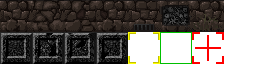
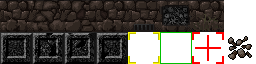
We have explosions!

Changed region(s): [[0.875, 0.5625, 1.0, 0.9375]]

diff --git a/Game.py b/Game.py
@@ -39,6 +39,62 @@ class Game( GameState ):
 
         self.world.process()
 
+        hitTiles = {}
+        for ent in self.world.getEntityByComponent( ECS.Components.Position, GameComponents.Explosive ):
+            pos = ent.getComponent( ECS.Components.Position )
+            pos = ( pos.x, pos.y )
+
+            explosive = ent.getComponent( GameComponents.Explosive )
+
+            def handleRay( targetX, targetY ):
+                curStrength = explosive.strength
+
+                def handleBlock( x, y ):
+                    nonlocal curStrength
+                    if curStrength <= 0:
+                        return True
+
+                    curToughness = TileTypes[ GameData.Map.get( x, y ) ].hardness
+                    if curToughness is None: #Unbreakable block
+                        return True
+
+                    if ( x, y ) in hitTiles:
+                        curToughness = hitTiles[ ( x, y ) ]
+                    else:
+                        hitTiles[ ( x, y ) ] = curToughness
+
+                    if curStrength > curToughness:
+                        hitTiles[ ( x, y ) ] = 0
+                        curStrength -= curToughness
+                    else:
+                        hitTiles[ ( x, y ) ] = curToughness - curStrength
+
+                Line( pos[0], pos[1], int( pos[0] + targetX ), int( pos[1] + targetY ), handleBlock )
+
+            for i in range( explosive.rayPerSquare ):
+                s = math.sin( i * math.pi / 2 / explosive.rayPerSquare )
+                c = math.cos( i * math.pi / 2 / explosive.rayPerSquare )
+
+                handleRay( s * 200, c * 200 )
+                handleRay( -s * 200, c * 200 )
+                handleRay( s * 200, -c * 200 )
+                handleRay( -s * 200, -c * 200 )
+
+            self.world.removeEntity( ent )
+
+        if len( hitTiles ) > 0:
+            for tilePos in hitTiles:
+                if hitTiles[ tilePos ] == 0:
+                    tileType = TileTypes[ GameData.Map.get( tilePos[0], tilePos[1] ) ]
+                    targetType = TILE_AIR
+
+                    if hasattr( tileType, 'onDestruction' ):
+                        targetType = tileType.onDestruction( *tilePos )
+
+                    if targetType != 0:
+                        print( targetType )
+                    GameData.Map.set( tilePos[0], tilePos[1], targetType )
+
         self.render()
 
     def render( self ):
@@ -81,7 +137,7 @@ class Game( GameState ):
             elif event.type == pygame.MOUSEBUTTONUP:
                 explosive = ECS.Entity()
                 explosive.addComponent( ECS.Components.Position( *self.mouseTilePos ) )
-                explosive.addComponent( GameComponents.Explosive( 50 ) )
+                explosive.addComponent( GameComponents.Explosive( 32, 6.25 ) )
                 explosive.addComponent( ECS.Components.Renderer( GameData.Entities, 'tnt' ) )
                 self.world.addEntity( explosive )
 

diff --git a/MapGen.py b/MapGen.py
@@ -2,6 +2,7 @@ import math
 import random
 
 from Util.TileTypes import *
+from Util import Line, StarCallback
 
 centerRoomSize = ( 5, 5 )
 
@@ -38,40 +39,6 @@ def circle(x0, y0, radius, endRadius, cb):
             r += 0.5
 
         angle -= stepSize
-
-def line(x0, y0, x1, y1, cb):
-    def starCb( x, y ):
-        cb( x, y )
-        cb( x - 1, y )
-        cb( x + 1, y )
-        cb( x, y - 1 )
-        cb( x, y + 1 )
-
-    "Bresenham's line algorithm"
-    dx = abs(x1 - x0)
-    dy = abs(y1 - y0)
-    x, y = x0, y0
-    sx = -1 if x0 > x1 else 1
-    sy = -1 if y0 > y1 else 1
-    if dx > dy:
-        err = dx / 2.0
-        while x != x1:
-            starCb(x, y)
-            err -= dy
-            if err < 0:
-                y += sy
-                err += dx
-            x += sx
-    else:
-        err = dy / 2.0
-        while y != y1:
-            starCb(x, y)
-            err -= dx
-            if err < 0:
-                x += sx
-                err += dy
-            y += sy
-    starCb(x, y)
 
 
 def buildFixedWalls( self, I, _buffer, val ):
@@ -141,7 +108,7 @@ def postInit( self, I, _buffer ):
     sectionSurface = 50 * 50
     curRadius = -1
 
-    def circleCallback( x, y ):
+    def setFixedWall( x, y ):
         _buffer[ I( int( x ), int( y ) ) ] = TILE_FIXED_WALL
 
     circleNum = 0
@@ -150,7 +117,7 @@ def postInit( self, I, _buffer ):
         nextSurface = curSurface + ( sectionSurface * sectionCount )
 
         nextRadius = int( math.sqrt( nextSurface / math.pi ) )
-        circle( centerX, centerY, nextRadius, nextRadius + 2, circleCallback )
+        circle( centerX, centerY, nextRadius, nextRadius + 2, setFixedWall )
 
         #Seperate sections in circle
         if sectionCount > 1:
@@ -159,7 +126,7 @@ def postInit( self, I, _buffer ):
                 s = math.sin( angle )
                 c = math.cos( angle )
 
-                line( int( s * ( curRadius + 1 ) ) + centerX, int( c * ( curRadius + 1 ) ) + centerY, int( s * nextRadius ) + centerX, int( c * nextRadius ) + centerY, circleCallback )
+                Line( int( s * ( curRadius + 1 ) ) + centerX, int( c * ( curRadius + 1 ) ) + centerY, int( s * nextRadius ) + centerX, int( c * nextRadius ) + centerY, StarCallback( setFixedWall ) )
 
 
         curRadius = nextRadius

diff --git a/Util/TileTypes.py b/Util/TileTypes.py
@@ -10,7 +10,7 @@ TILE_DOOR_OPEN = 21
 TileTypes = {}
 
 class TileType:
-    def __init__( self, typeId, name ):
+    def __init__( self, typeId, name, **kargs ):
         self.typeId = typeId
         self.name = name
 
@@ -19,12 +19,21 @@ class TileType:
 
         TileTypes[ self.typeId ] = self
 
+        for k in kargs:
+            v = kargs[k]
+            setattr( self, k, v )
+
     def render( self, target, x, y, worldX, worldY ):
         pass
 
+    hardness = None
+
+    def __str__( self ):
+        return "{%d: %s}" % ( self.typeId, self.name )
+
 class BaseTileType( TileType ):
-    def __init__( self, typeId, name, atlas, atlasIndex ):
-        super().__init__( typeId, name )
+    def __init__( self, typeId, name, atlas, atlasIndex, **kargs ):
+        super().__init__( typeId, name, **kargs )
         self.atlas = atlas
         self.atlasIndex = atlasIndex
 
@@ -38,8 +47,8 @@ def bsd_rand(seed):
     return seed
 
 class MultiTileType( BaseTileType ):
-    def __init__( self, typeId, name, atlas, atlasIndex, atlasEnd ):
-        super().__init__( typeId, name, atlas, atlasIndex )
+    def __init__( self, typeId, name, atlas, atlasIndex, atlasEnd, **kargs ):
+        super().__init__( typeId, name, atlas, atlasIndex, **kargs )
         self.atlasEnd = atlasEnd
 
     def render( self, target, x, y, worldX, worldY ):

diff --git a/GameData.py b/GameData.py
@@ -1,4 +1,5 @@
 import Util
+import random
 
 #Global definitions
 TileSize = ( 32, 32 )
@@ -14,9 +15,10 @@ Fonts = {}
 #Load the tiles and register which are being used
 MainAtlas = Util.Atlas( 'data/tiles.png', TileSize )
 
-MainAtlas.map_val_to_font( 0, 7, 0 )
-MainAtlas.map_values_to_font( 8, 4, 0, 1 )
-MainAtlas.map_values_to_font( 16, 7, 0, 0 )
+MainAtlas.map_values_to_font( 0, 7, 0, 0 ) #Stone blocks
+MainAtlas.map_values_to_font( 8, 4, 0, 1 ) #Bricks
+MainAtlas.map_values_to_font( 16, 1, 7, 1 ) #Rubble
+MainAtlas.map_val_to_font( 'air', 7, 0 )
 MainAtlas.map_val_to_font( 'cursor', 5, 1 )
 MainAtlas.map_val_to_font( 'cursor_green', 6, 1 )
 MainAtlas.map_val_to_font( 'cursor_red', 6, 1 )
@@ -28,6 +30,9 @@ Entities.map_val_to_font( 'tnt', 0, 0 )
 #Build the TileTypes, no need to register them, that's handled in their constructor.
 Util.TileType( Util.TILE_AIR, 'Air', hardness = 0.5 )
 
-Util.MultiTileType( Util.TILE_WALL, 'Wall', MainAtlas, 16, 7, hardness = 4 )
+Util.BaseTileType( Util.TILE_RUBBLE, 'Rubble', MainAtlas, 16, hardness = 0.25 )
+Util.MultiTileType( Util.TILE_WALL, 'Wall', MainAtlas, 0, 7,
+        hardness = 4,
+        onDestruction = lambda x, y: Util.TILE_RUBBLE if random.random() < 0.25 else Util.TILE_AIR )
 Util.MultiTileType( Util.TILE_FIXED_WALL, 'Fixed wall', MainAtlas, 8, 4 )
 

diff --git a/Util/Drawing.py b/Util/Drawing.py
@@ -1,0 +1,42 @@
+def StarCallback( fun ):
+    def cb( x, y ):
+        fun( x, y )
+        fun( x - 1, y )
+        fun( x + 1, y )
+        fun( x, y - 1 )
+        fun( x, y + 1 )
+
+    return cb
+
+def Line(x0, y0, x1, y1, cb):
+    "Bresenham's line algorithm"
+    dx = abs(x1 - x0)
+    dy = abs(y1 - y0)
+    x, y = x0, y0
+    sx = -1 if x0 > x1 else 1
+    sy = -1 if y0 > y1 else 1
+
+    if dx > dy:
+        err = dx / 2.0
+        while x != x1:
+            if cb(x, y) == True:
+                return
+            err -= dy
+            if err < 0:
+                y += sy
+                err += dx
+            x += sx
+    else:
+        err = dy / 2.0
+        while y != y1:
+            if cb(x, y) == True:
+                return
+
+            err -= dx
+            if err < 0:
+                x += sx
+                err += dy
+            y += sy
+    if cb(x, y) == True:
+        return
+

diff --git a/Util/Map.py b/Util/Map.py
@@ -19,6 +19,9 @@ class Map:
 
     def get( self, x, y ):
         return self._buffer[ self.I( x, y ) ]
+    def set( self, x, y, val ):
+        self._buffer[ self.I( x, y ) ] = val
+        self.renderDirty = True
 
     def makeMap( self, getVal, preIterInit, postInit ):
         I = lambda x, y: x + y * self.width
@@ -110,6 +113,7 @@ class Map:
         renderX = int( x / self.atlas.tileSize[0] )
         renderY = int( y / self.atlas.tileSize[1] )
         if ( self.renderDirty or renderX != self.lastRenderX or renderY != self.lastRenderY ):
+            print( 'Rendering.' )
             self.renderDirty = False
             self.lastRenderX = renderX
             self.lastRenderY = renderY

diff --git a/GameComponents.py b/GameComponents.py
@@ -1,7 +1,8 @@
 import ECS
 
 class Explosive( ECS.Component ):
-    def __init__( self, strength ):
+    def __init__( self, rayPerSquare, strength ):
+        self.rayPerSquare = rayPerSquare
         self.strength = strength
 
     def __str__( self ):

diff --git a/Util/__init__.py b/Util/__init__.py
@@ -1,4 +1,5 @@
 from Util.TileTypes import *
+from Util.Drawing import *
 
 from Util.Map import Map
 from Util.Atlas import Atlas
